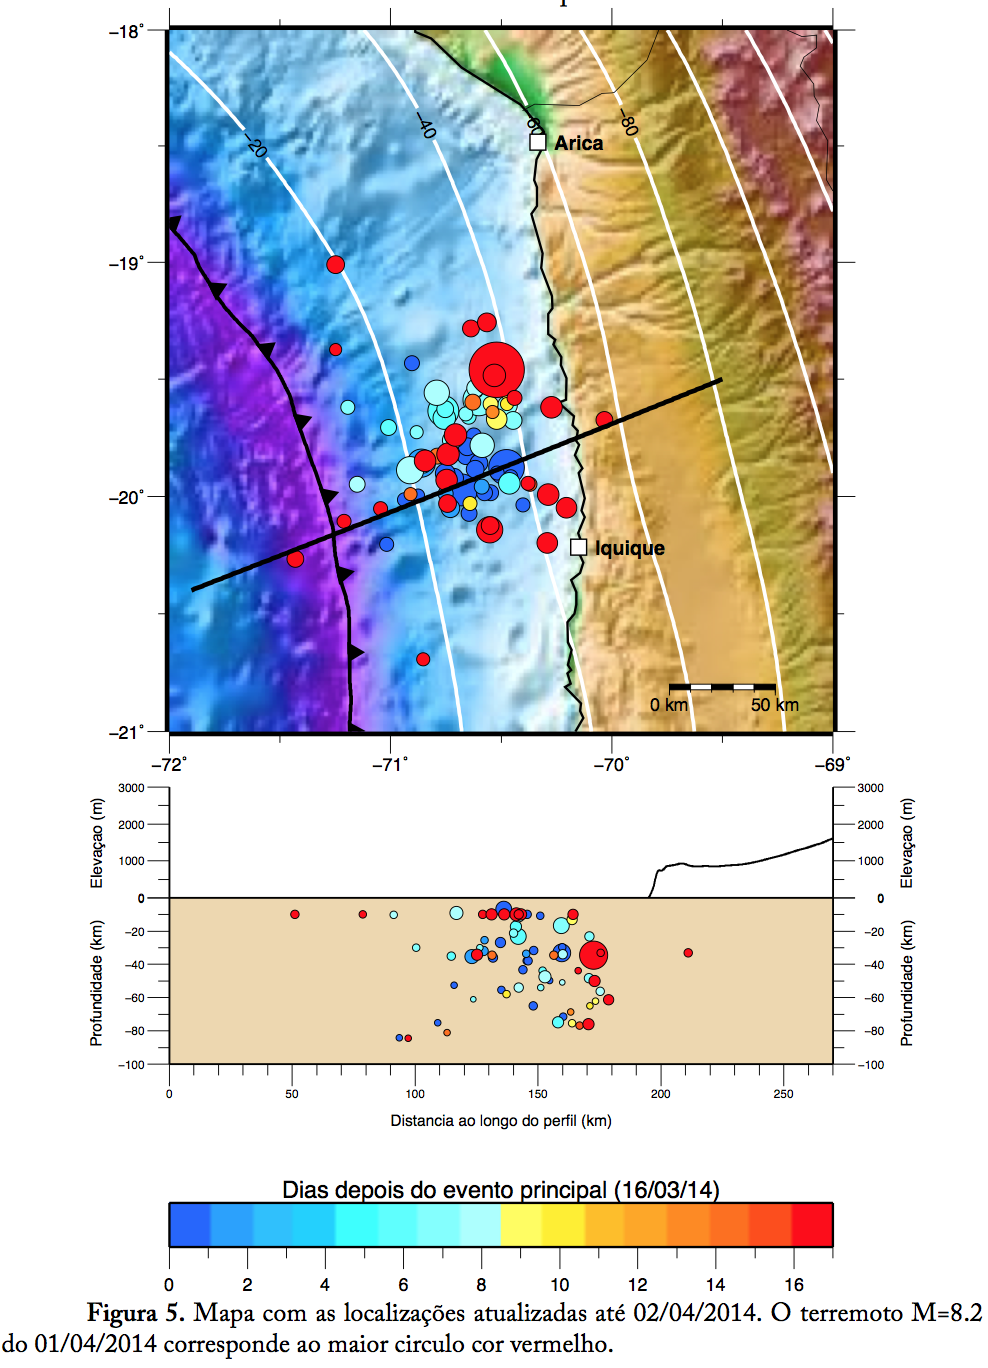
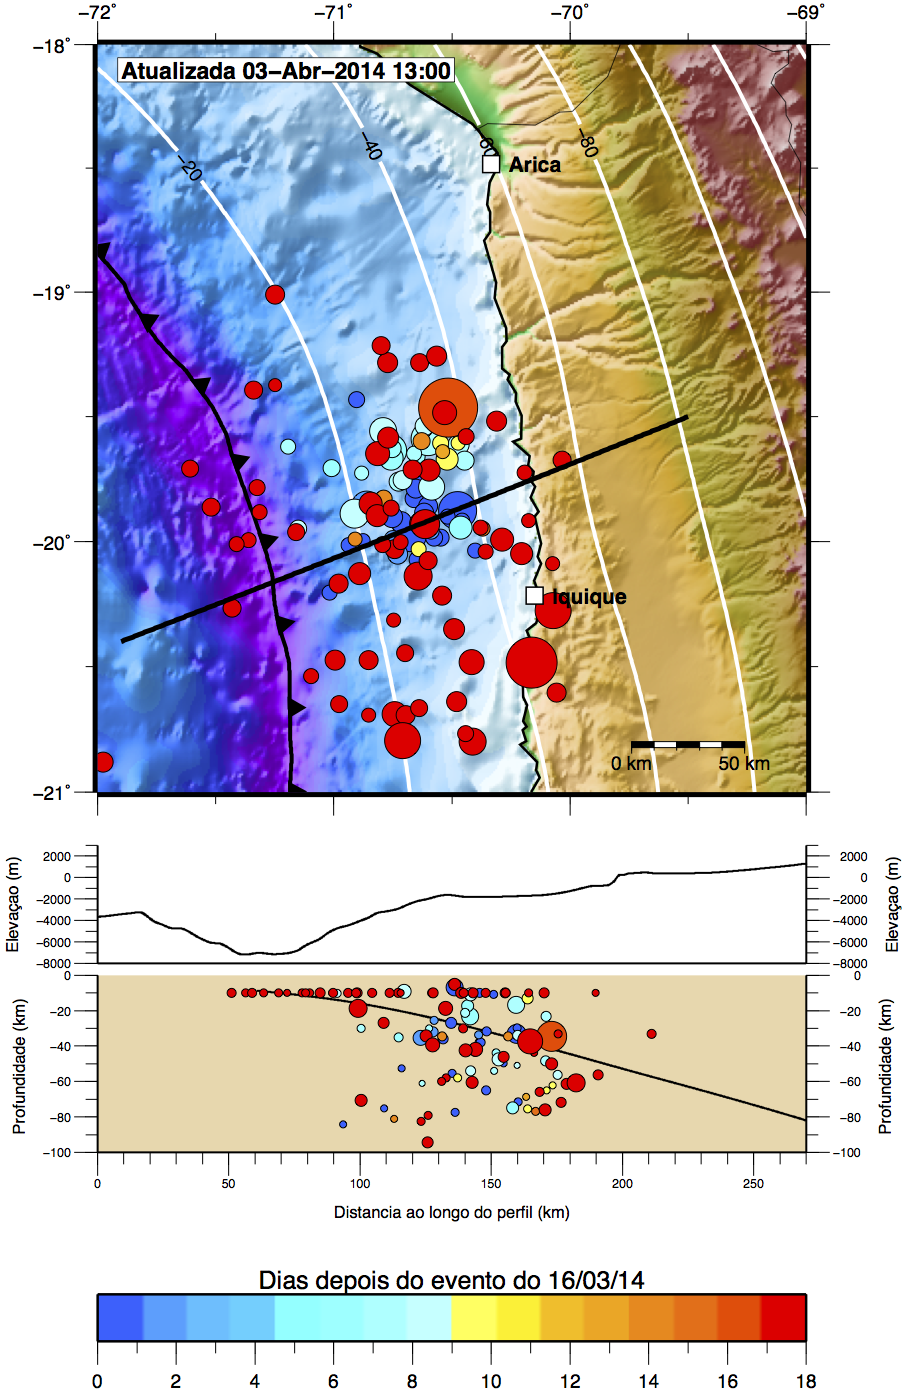
montes claros 2014-04-09

diff --git a/portal/templates/index.html b/portal/templates/index.html
@@ -43,6 +43,41 @@
 
 		<br/><br/>
 
+
+
+		<!-- <table style='background-color:#64c4d0;' cellpadding="0" cellspacing="0">  -->
+                <table cellpadding="0" cellspacing="0">
+                    <tr style="background-color: #fcb421; color:#000000; height: 10px;"><td>
+                        <h2 >&nbsp;Montes Claros, MG: Reativação da sismicidade, 06-04-2014</h2>
+                    </td></tr>
+                    <tr style="background-color: #1094ab; height: 4px;"><td>
+                        &nbsp;
+                    </td></tr>
+                    <tr>
+                        <!--<td valign="top">-->
+                        <!--</td>-->
+                        <td>
+                            <p>
+                                <a href="${tg.url('/inform')}">
+                                    <img style="width: 200px; float: left; padding: 4px;" src="${url('/pdf')}/montesclaros_20140409.png" alt=""/>
+                                </a>
+<br/>
+Uma reativação da sismicidade de Montes Claros, norte de Minas Gerais, vem sendo observada desde 01/04/2014. 
+<br/>
+<br/>
+Análise dos registros das estações sismográficas da USP e da UnB indicam que <font color='red'><b>os tremores tiveram magnitudes um pouco menores do que os maiores de 2012</b></font>, mas que estão ocorrendo aproximadamente 1 km mais a NW da área urbana da cidade.
+<br/>
+<br/>
+Os eventos do último domingo (06/04) ocorreram a profundidades semelhantes à atividade de 2012, ou seja entre 1 e 2 km abaixo da superfície.
+<br/>
+<br/>
+<br/>
+Confira o <a href="${tg.url('/inform')}">informe</a>.
+                            </p>
+                        </td>
+                    </tr>
+                </table>
+
 		<!-- <table style='background-color:#64c4d0;' cellpadding="0" cellspacing="0">  -->
                 <table cellpadding="0" cellspacing="0">
                     <tr style="background-color: #fcb421; color:#000000; height: 10px;"><td>
@@ -59,15 +94,30 @@
                                 <a href="${tg.url('/inform')}">
                                     <img style="width: 200px; float: right; padding: 4px;" src="${url('/pdf')}/chile_destaque.png" alt=""/>
                                 </a>
-<big>
 Às 20:46 (Hora de Brasília), um terremoto de magnitude 8.2 rompeu uma seção de 200km do contato entre as placas de Nazca e da América do Sul. Desta maneira, os tremores de março eram os "precursores" de um terremoto que preencheu parcialmente a lacuna do Norte do Chile de 1877.
 <br/>
 A região norte do Chile continua sendo monitorada pelo Centro de Sismologia da USP, assim como por várias outras agências internacionais. A parte sul da "Lacuna de 1877" (região de ~200 km de extensão entre Iquique e a península de Mejillones continua intacta e ainda tem tensões acumuladas para provocar um outro grande terremoto de magnitude ~8.
 <br/>
+<br/>
+<font color='red'><b>Atualização 03-Abril-2014 13:00 hrs</b></font>
+<br/>
+Aparentemente a sismicidade na região esta migrando para o sul.
+
+<br/>
+Ontem por volta das 23:43 hrs (hora de Brasilia) ocorreu um novo terremoto de magnitude 7.6.
+Desta vez o evento rompeu uma secção mais profunda da interface de contato entre as duas placas e foi localizado aproximadamente 20 km ao sul da cidade de Iquique.
+
+<br/>
+As réplicas deste novo evento estão ocorrendo para o sul da região, até a latitude 20.9S.
+
+<br/>
+Caso a migração da sismicidade continue para o sul, é possível que um novo terremoto M~8.2 ou maior consiga romper a parte sul da lacuna sísmica de 1877, compreendida entre a cidade de Iquique e a Península de Mejillones (lat. ~22.5S).
+<br/>
 Seguiremos atentos ao desenvolvimento desta interessante sequência.
 <br/>
+
+<br/>
 Confira o <a href="${tg.url('/inform')}">informe</a>.
-</big>
                             </p>
                         </td>
                     </tr>

diff --git a/portal/templates/inform.html b/portal/templates/inform.html
@@ -16,13 +16,53 @@
 <div style="padding-left: 25px; padding-right: 30px;">
     <h2>Últimos Informes:</h2>
 
+    <h3>Reativação da sismicidade de Montes Claros, MG, 06-04-2014 :</h3>
+<big>
+
+Uma reativação da sismicidade de Montes Claros, norte de Minas Gerais, vem sendo observada desde 01/04/2014. 
+<br/>
+Análise dos registros das estações sismográficas da USP e da UnB indicam que os tremores tiveram magnitudes um pouco menores do que os maiores de 2012, mas que estão ocorrendo aproximadamente 1 km mais a NW da área urbana da cidade.
+<br/>
+Os eventos do último domingo (06/04) ocorreram a profundidades semelhantes à atividade de 2012, ou seja entre 1 e 2 km abaixo da superfície.
+<br/>
+<br/>
+Clique na figura para baixar o 
+    <a href="${url('/pdf')}/montesclaros_20140409.pdf">
+relatório completo.
+<br/>
+</a>
+</big>
+<center>
+    <a href="${url('/pdf')}/montesclaros_20140409.pdf">
+        <img style="border: none; width:400px;" src="${url('/pdf')}/montesclaros_20140409.png" />
+    </a>
+</center>
+<br/><br/><br/>
+
     <h3>Chile: o terremoto de 01-04-2014 de M 8.2:</h3>
 <big>
 Às 20:46 (Hora de Brasília), um terremoto de magnitude 8.2 rompeu uma seção de 200km do contato entre as placas de Nazca e da América do Sul. Desta maneira, os tremores de março eram os "precursores" de um terremoto que preencheu parcialmente a lacuna do Norte do Chile de 1877.
 <br/>
 A região norte do Chile continua sendo monitorada pelo Centro de Sismologia da USP, assim como por várias outras agências internacionais. A parte sul da "Lacuna de 1877" (região de ~200 km de extensão entre Iquique e a península de Mejillones continua intacta e ainda tem tensões acumuladas para provocar um outro grande terremoto de magnitude ~8.
 <br/>
-Seguiremos atentos ao desenvolvimento desta interessante sequência e atualizaremos esta página caso seja necessário.
+Seguiremos atentos ao desenvolvimento desta interessante sequência.
+
+<br/>
+<br/>
+<font color='red'><b>Atualização 03-Abril-2014 13:00 hrs</b></font>
+<br/>
+Aparentemente a sismicidade na região esta migrando para o sul. 
+
+<br/>
+Ontem por volta das 23:43 hrs (hora de Brasilia) ocorreu um novo terremoto de magnitude 7.6. 
+Desta vez o evento rompeu uma secção mais profunda da interface de contato entre as duas placas e foi localizado aproximadamente 20 km ao sul da cidade de Iquique.
+
+<br/>
+As réplicas deste novo evento estão ocorrendo para o sul da região, até a latitude 20.9S.
+
+<br/>
+Caso a migração da sismicidade continue para o sul, é possível que um novo terremoto M~8.2 ou maior consiga romper a parte sul da lacuna sísmica de 1877, compreendida entre a cidade de Iquique e a Península de Mejillones (lat. ~22.5S).
+<br/>
 <br/>
 Clique na figura para baixar o 
     <a href="${url('/pdf')}/relatorio_chile_0204_HA.pdf">
@@ -31,12 +71,22 @@ relatório completo.
 </big>
 <br/><br/>
 <center>
+<table>
+<tr valign='top'><td>
     <a href="${url('/pdf')}/relatorio_chile_0204_HA.pdf">
-        <img style="border: none;" src="${url('/pdf')}/chile_preshocks.gif" />
+        <img style="border: none; width:400px;" src="http://moho.iag.usp.br/wiki/lib/exe/fetch.php/seminario/final.gif" />
     </a>
+A animação acima ilustra a evolução da sequência de tremores a cada hora depois do evento do 16/03 com as localizações do Centro de Sismologia da USP.
+</td><td>
+    <a href="${url('/pdf')}/relatorio_chile_0204_HA.pdf">
+        <img style="border: none; width:400px;" src="${url('/pdf')}/chile_destaque.png" />
+    </a>
+A figura acima ilustra a evolução da sequência de tremores em profundidade.
+</td>
+</tr>
+</table>
     <br/>
-    A animação acima ilustra a evolução da sequência de tremores a cada hora depois do evento do 16/04 com as localizações do Centro de Sismologia da USP.
-
+    
 </center>
 <br/><br/>
 

diff --git a/portal/templates/master.html b/portal/templates/master.html
@@ -62,5 +62,16 @@
     ${footer()}
 
   </div>
+
+  <script>
+	    (function(i,s,o,g,r,a,m){i['GoogleAnalyticsObject']=r;i[r]=i[r]||function(){
+	      (i[r].q=i[r].q||[]).push(arguments)},i[r].l=1*new Date();a=s.createElement(o),
+	        m=s.getElementsByTagName(o)[0];a.async=1;a.src=g;m.parentNode.insertBefore(a,m)
+		  })(window,document,'script','//www.google-analytics.com/analytics.js','ga');
+
+		    ga('create', 'UA-49651017-1', 'usp.br');
+		      ga('send', 'pageview');
+</script>
+
 </body>
 </html>
